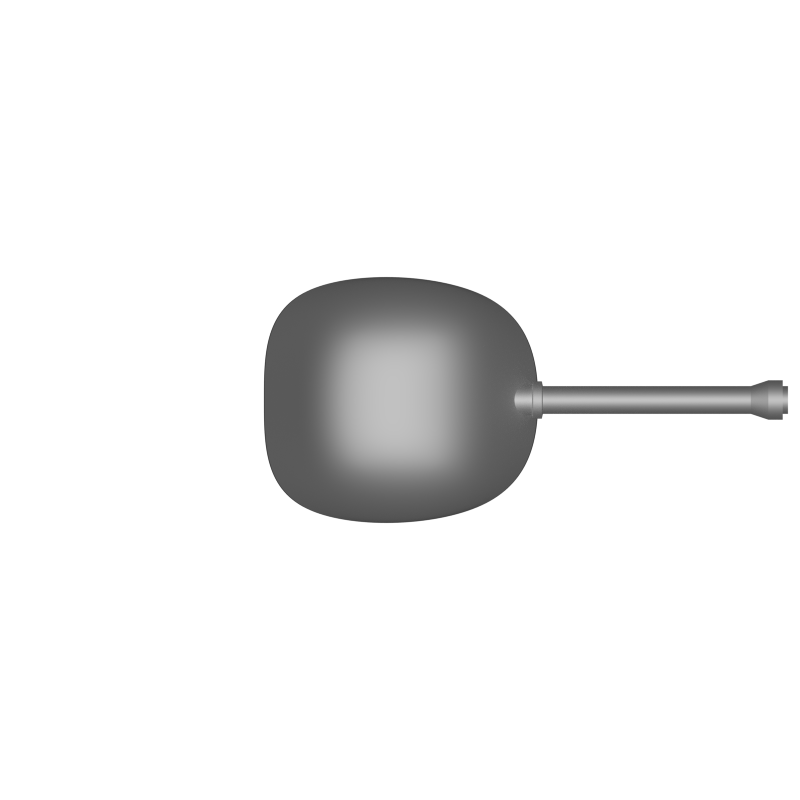
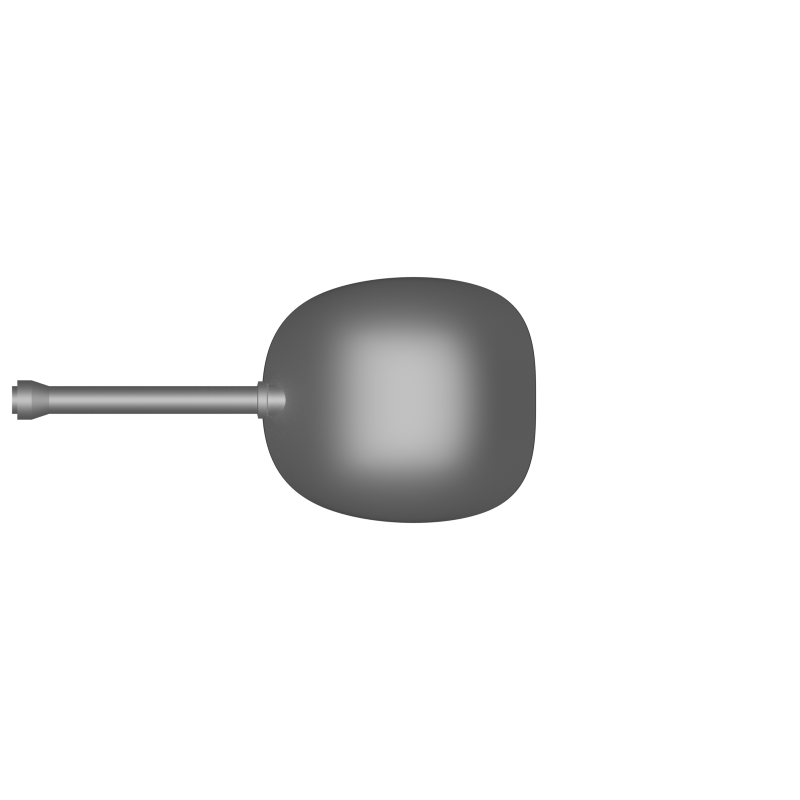
Tykki kääntyy nyt aina lyhyintä reittiä. Lisäksi main menu piirto default sijaintiin.

diff --git a/SFML_setup_30.1/SFML_setup_30.1/Player.cpp b/SFML_setup_30.1/SFML_setup_30.1/Player.cpp
@@ -39,18 +39,25 @@ void Player::on_update(sf::Event event, sf::RenderWindow* win)
 	float dy = y - coord_pos.y;
 	float rotation = (atan2(dy, dx)) * 180 / M_PI;
 
-	if (tt->get_rotation() < rotation + 180 )
+	float rotation2 = (rotation + 180) - tt->get_rotation();
+
+	if (rotation2 < 0)
+	{
+		rotation2 += 360;
+	}
+
+	if (rotation2 >180)
 	{
 		tt->get_sprite().rotate(5 *_elapsed);
-		std::cout << rotation +180<< " " << tt->get_rotation() << std::endl;
+		
 	}
-	if (tt->get_rotation()>rotation + 180)
+	if (rotation2 <180)
 	{
 		tt->get_sprite().rotate(-5*_elapsed);
-		std::cout << rotation +180<< " " << tt->get_rotation() << std::endl;
+		
 	}
-
-
+	//std::cout << rotation + 180 << " " << tt->get_rotation() << std::endl;
+	std::cout << rotation2 << std::endl;
 	
 	//----------------Key_Pressing_check--------------------------------------//
 	//Checks movement stuff

diff --git a/SFML_setup_30.1/SFML_setup_30.1/MainMenu.cpp b/SFML_setup_30.1/SFML_setup_30.1/MainMenu.cpp
@@ -25,6 +25,7 @@ MainMenu::menu_result MainMenu::show(sf::RenderWindow* win)
 	menu_items.push_back(play_button);
 	menu_items.push_back(exit_button);
 			
+	win->setView(win->getDefaultView());
 	win->draw(sprite);
 	win->display();
 
